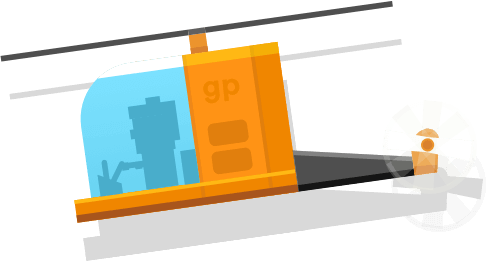
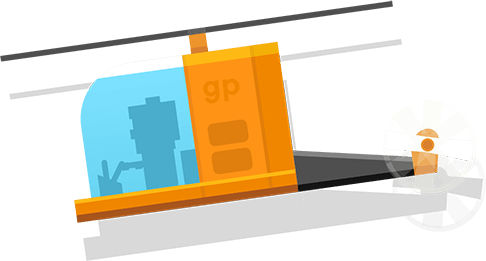
Replace copter. Fix bug carousel (maked function reload home page after resize)

diff --git a/src/pages/home.vue b/src/pages/home.vue
@@ -86,8 +86,14 @@
                         </router-link>
                     </div>
                 </div>
-                <img src="/src/assets/img/illu_our_story.png" class="mountains md-small-hide">
-                <img src="/src/assets/img/illu_our_story_copter.png" class="copter md-small-hide">
+                <img srcset="/src/assets/img/illu_our_story.png 1x,
+                                         /src/assets/img/illu_our_story@2x.png 2x"
+                     src="/src/assets/img/illu_our_story.png" class="mountains md-small-hide">
+                <img srcset="/src/assets/img/illu_our_story_copter.png 1x,
+                                         /src/assets/img/illu_our_story_copter@2x.png 2x"
+                     src="/src/assets/img/illu_our_story_copter.png" class="copter md-small-hide">
+                <!--<img src="/src/assets/img/illu_our_story.png" class="mountains md-small-hide">-->
+                <!--<img src="/src/assets/img/illu_our_story_copter@2x.png" class="copter md-small-hide">-->
             </section>
 
             <section id="section-5">
@@ -186,6 +192,10 @@
         return { x: xPosition, y: yPosition };
     }
 
+    //reload page afrer resize
+    window.onresize = function(event) {
+        location.reload();
+    };
 
     export default {
         name: 'home',
